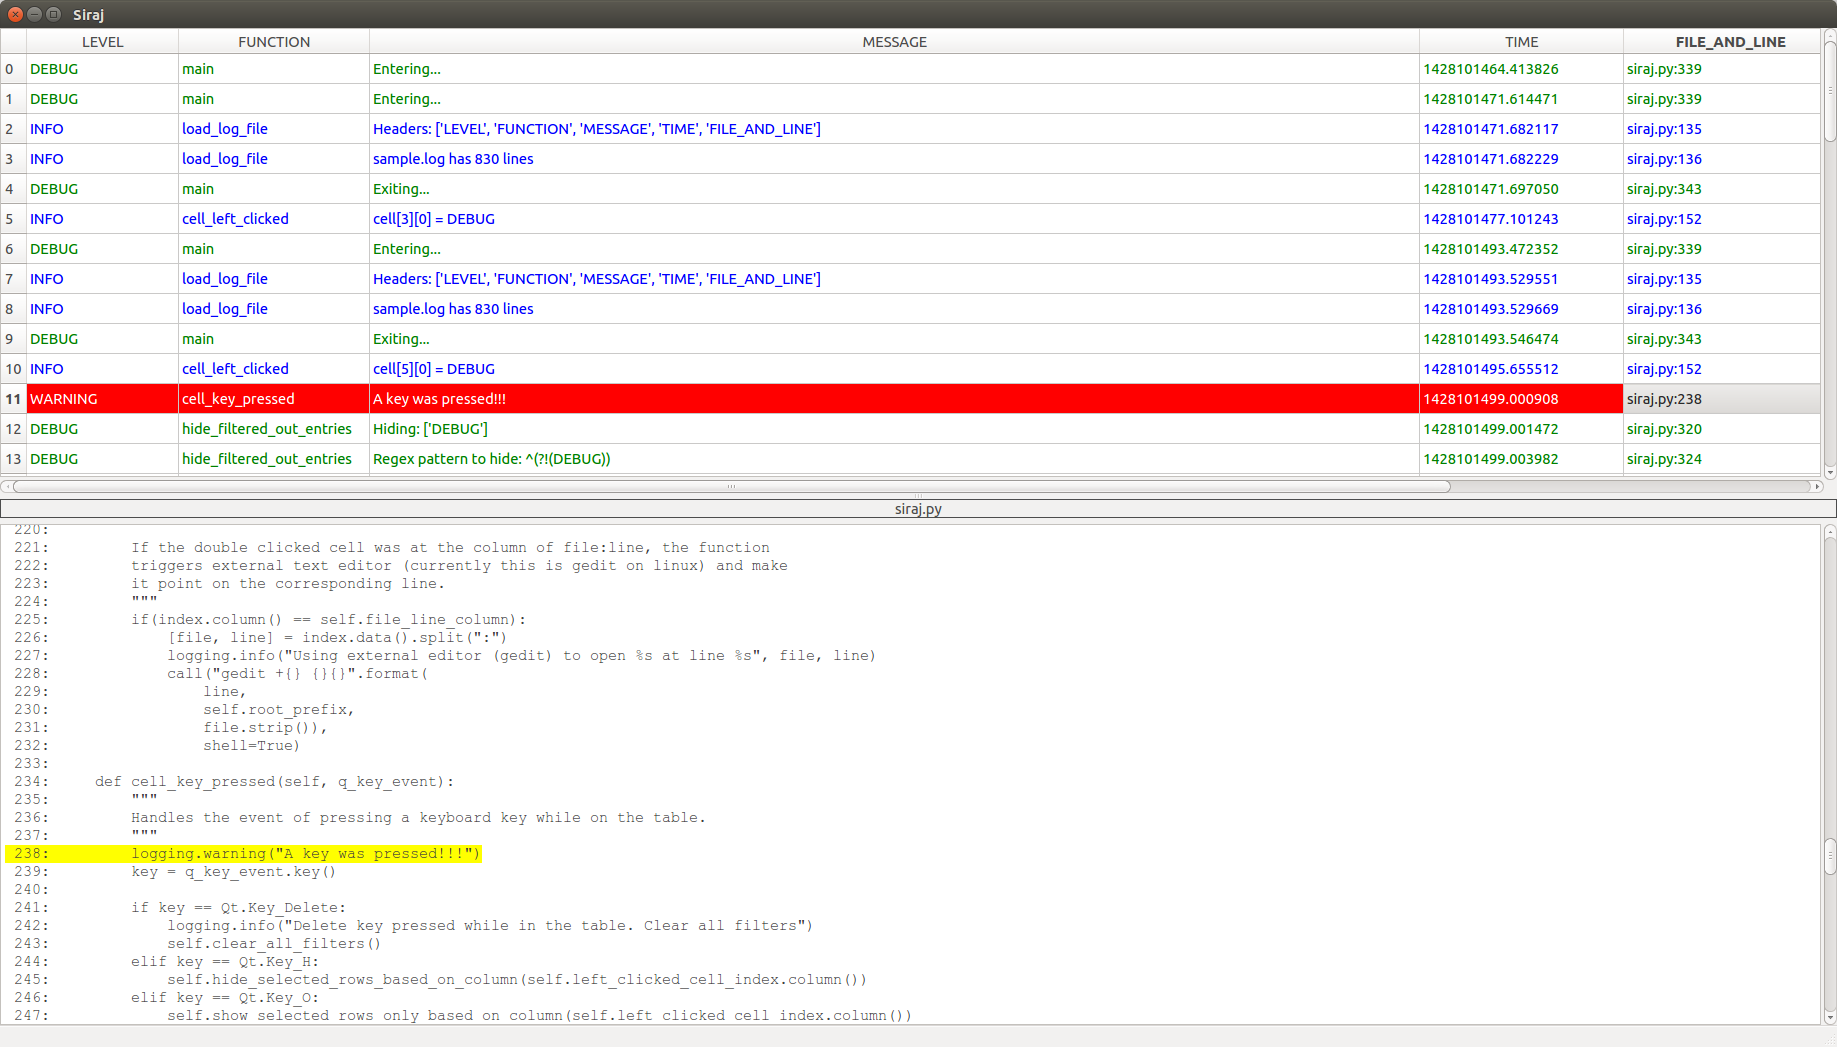
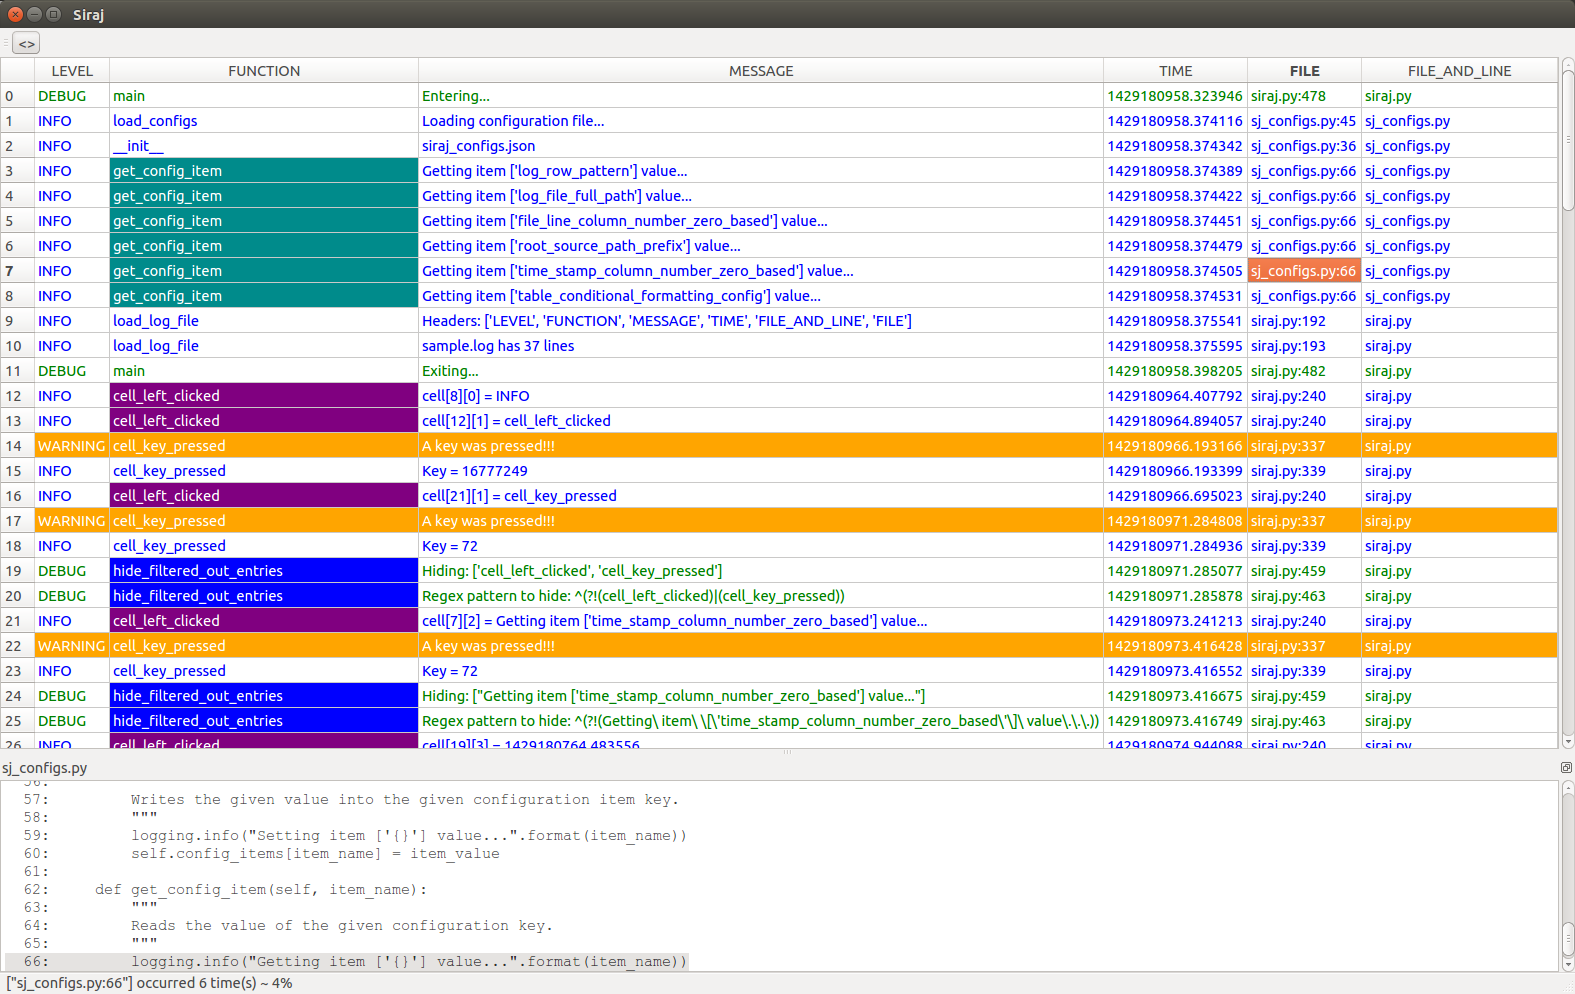
#29: Making the source view docable.
Currently, closing the source view is disabled, it can be made
visible/invisible using the toolbar toggle button.

Making views dockable 
https://github.com/embedded-slam/siraj/issues/issue/29

diff --git a/ui_siraj.py b/ui_siraj.py
@@ -2,7 +2,7 @@
 
 # Form implementation generated from reading ui file 'siraj.ui'
 #
-# Created: Wed Apr 15 08:03:32 2015
+# Created: Thu Apr 16 06:05:41 2015
 #      by: PyQt4 UI code generator 4.10.4
 #
 # WARNING! All changes made in this file will be lost!
@@ -64,6 +64,9 @@ class Ui_Siraj(object):
         self.statusbar.setObjectName(_fromUtf8("statusbar"))
         Siraj.setStatusBar(self.statusbar)
         self.dckSource = QtGui.QDockWidget(Siraj)
+        self.dckSource.setMinimumSize(QtCore.QSize(0, 0))
+        self.dckSource.setAutoFillBackground(True)
+        self.dckSource.setFeatures(QtGui.QDockWidget.DockWidgetFloatable|QtGui.QDockWidget.DockWidgetMovable)
         self.dckSource.setObjectName(_fromUtf8("dckSource"))
         self.dckSourceContents = QtGui.QWidget()
         sizePolicy = QtGui.QSizePolicy(QtGui.QSizePolicy.Expanding, QtGui.QSizePolicy.Expanding)
@@ -72,26 +75,13 @@ class Ui_Siraj(object):
         sizePolicy.setHeightForWidth(self.dckSourceContents.sizePolicy().hasHeightForWidth())
         self.dckSourceContents.setSizePolicy(sizePolicy)
         self.dckSourceContents.setObjectName(_fromUtf8("dckSourceContents"))
-        self.widget = QtGui.QWidget(self.dckSourceContents)
-        self.widget.setGeometry(QtCore.QRect(460, 40, 258, 219))
-        self.widget.setObjectName(_fromUtf8("widget"))
-        self.lytSource = QtGui.QVBoxLayout(self.widget)
-        self.lytSource.setSizeConstraint(QtGui.QLayout.SetMaximumSize)
+        self.verticalLayoutWidget_2 = QtGui.QWidget(self.dckSourceContents)
+        self.verticalLayoutWidget_2.setGeometry(QtCore.QRect(150, 210, 160, 80))
+        self.verticalLayoutWidget_2.setObjectName(_fromUtf8("verticalLayoutWidget_2"))
+        self.lytSource = QtGui.QVBoxLayout(self.verticalLayoutWidget_2)
         self.lytSource.setMargin(0)
         self.lytSource.setObjectName(_fromUtf8("lytSource"))
-        self.lblSourceFileName = QtGui.QLabel(self.widget)
-        sizePolicy = QtGui.QSizePolicy(QtGui.QSizePolicy.Expanding, QtGui.QSizePolicy.Fixed)
-        sizePolicy.setHorizontalStretch(0)
-        sizePolicy.setVerticalStretch(0)
-        sizePolicy.setHeightForWidth(self.lblSourceFileName.sizePolicy().hasHeightForWidth())
-        self.lblSourceFileName.setSizePolicy(sizePolicy)
-        self.lblSourceFileName.setFrameShape(QtGui.QFrame.Box)
-        self.lblSourceFileName.setFrameShadow(QtGui.QFrame.Plain)
-        self.lblSourceFileName.setText(_fromUtf8(""))
-        self.lblSourceFileName.setAlignment(QtCore.Qt.AlignCenter)
-        self.lblSourceFileName.setObjectName(_fromUtf8("lblSourceFileName"))
-        self.lytSource.addWidget(self.lblSourceFileName)
-        self.txtSourceFile = QtGui.QTextEdit(self.widget)
+        self.txtSourceFile = QtGui.QTextEdit(self.verticalLayoutWidget_2)
         font = QtGui.QFont()
         font.setFamily(_fromUtf8("Courier New"))
         self.txtSourceFile.setFont(font)

diff --git a/siraj.py b/siraj.py
@@ -114,7 +114,8 @@ class LogSParserMain(QMainWindow):
         
     def toggle_source_view(self):
         self.is_source_visible = not self.is_source_visible
-        self.user_interface.splitter.setSizes([self.is_table_visible, self.is_source_visible])
+        self.user_interface.dckSource.setVisible(self.is_source_visible)
+        logging.info("Source view is now {}".format("Visible" if self.is_source_visible else "Invisible"))
 
     def menu_about(self):
         """
@@ -233,7 +234,7 @@ siraj.  If not, see
         
         This is only done if the source view is visible.
         """
-        
+        index = self.proxy_model.mapToSource(index)
         if(self.is_source_visible):
             self.user_interface.txtSourceFile.setTextCursor(QTextCursor())
             logging.info("cell[%d][%d] = %s", index.row(), index.column(), index.data())
@@ -242,7 +243,6 @@ siraj.  If not, see
             if(index.column() == self.file_line_column):
                 [file, line] = index.data().split(":")
                 full_path = "{}{}".format(self.root_prefix, file.strip())
-                self.user_interface.lblSourceFileName.setText(full_path)
                 file_contents = "\n".join(["{0:4d}: {1:s}".format(i + 1, line) for(i, line) in enumerate(open(full_path).read().splitlines())])
                 self.user_interface.txtSourceFile.setText(file_contents)
                 line_number = int(line) - 1
@@ -256,6 +256,8 @@ siraj.  If not, see
                 text_cursor.movePosition(QTextCursor.EndOfLine, 1)
                 text_cursor.mergeCharFormat(text_format)
                 self.user_interface.txtSourceFile.setTextCursor(text_cursor)
+                self.user_interface.dckSource.setWindowTitle(full_path)
+                self.user_interface.tblLogData.setFocus()
         
         self.update_status_bar()
                     
@@ -334,7 +336,8 @@ siraj.  If not, see
         """
         logging.warning("A key was pressed!!!")
         key = q_key_event.key()
- 
+        logging.info("Key = {}".format(key))
+
         if key == Qt.Key_Delete:
             logging.info("Delete key pressed while in the table. Clear all filters")
             self.clear_all_filters()
@@ -466,7 +469,7 @@ siraj.  If not, see
         
 def main():
     logging.basicConfig(
-        format='%(levelname)s|%(funcName)s|%(message)s|%(created)f|%(filename)s:%(lineno)s', 
+        format='%(levelname)s||%(funcName)s||%(message)s||%(created)f||%(filename)s:%(lineno)s', 
         filename='siraj.log',
         filemode="w",
         level=logging.DEBUG,  
